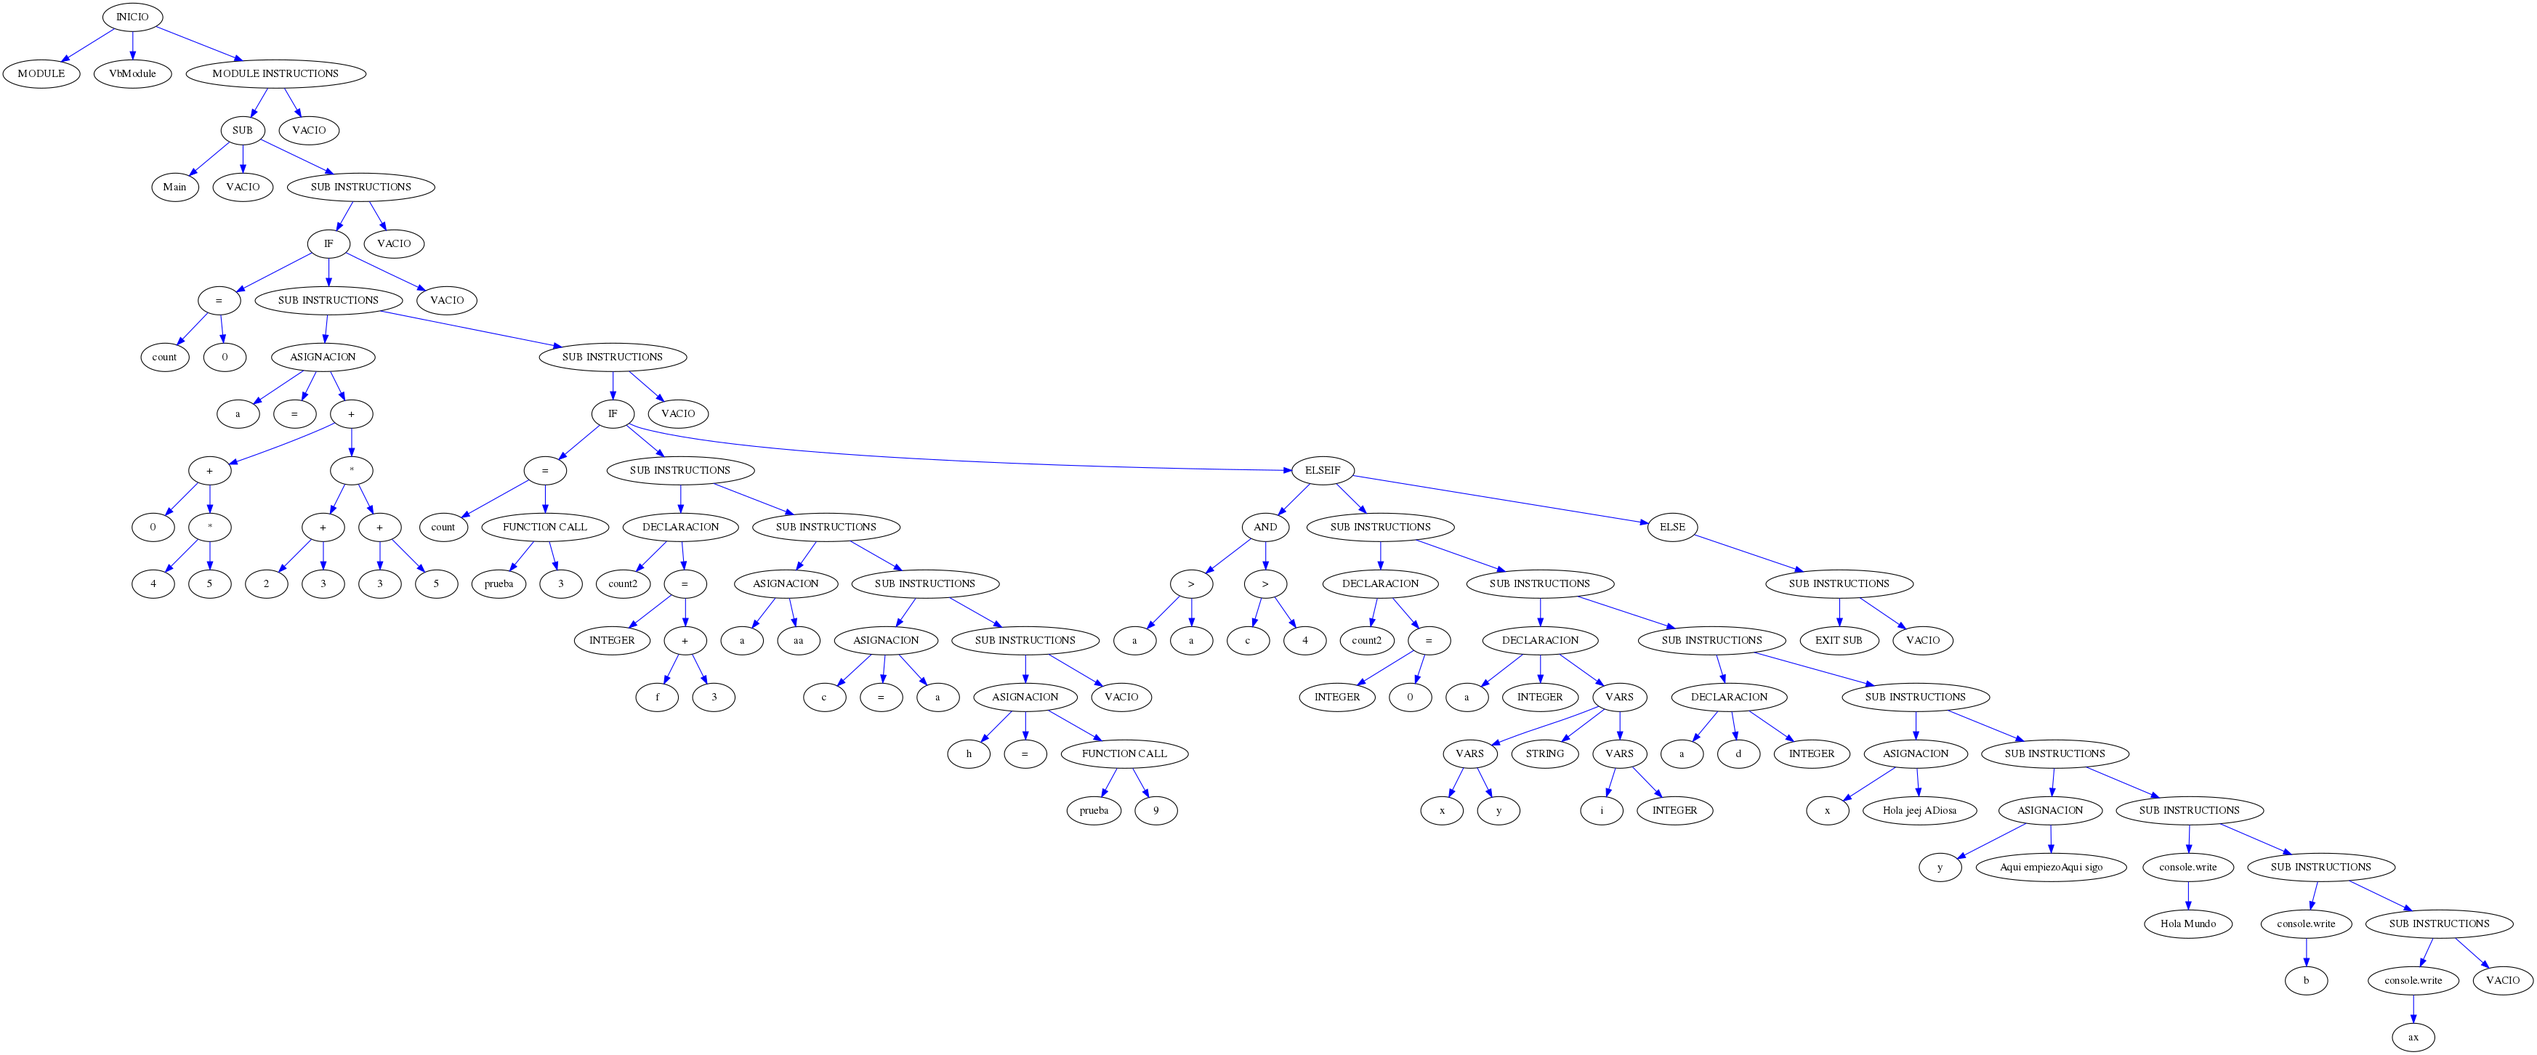
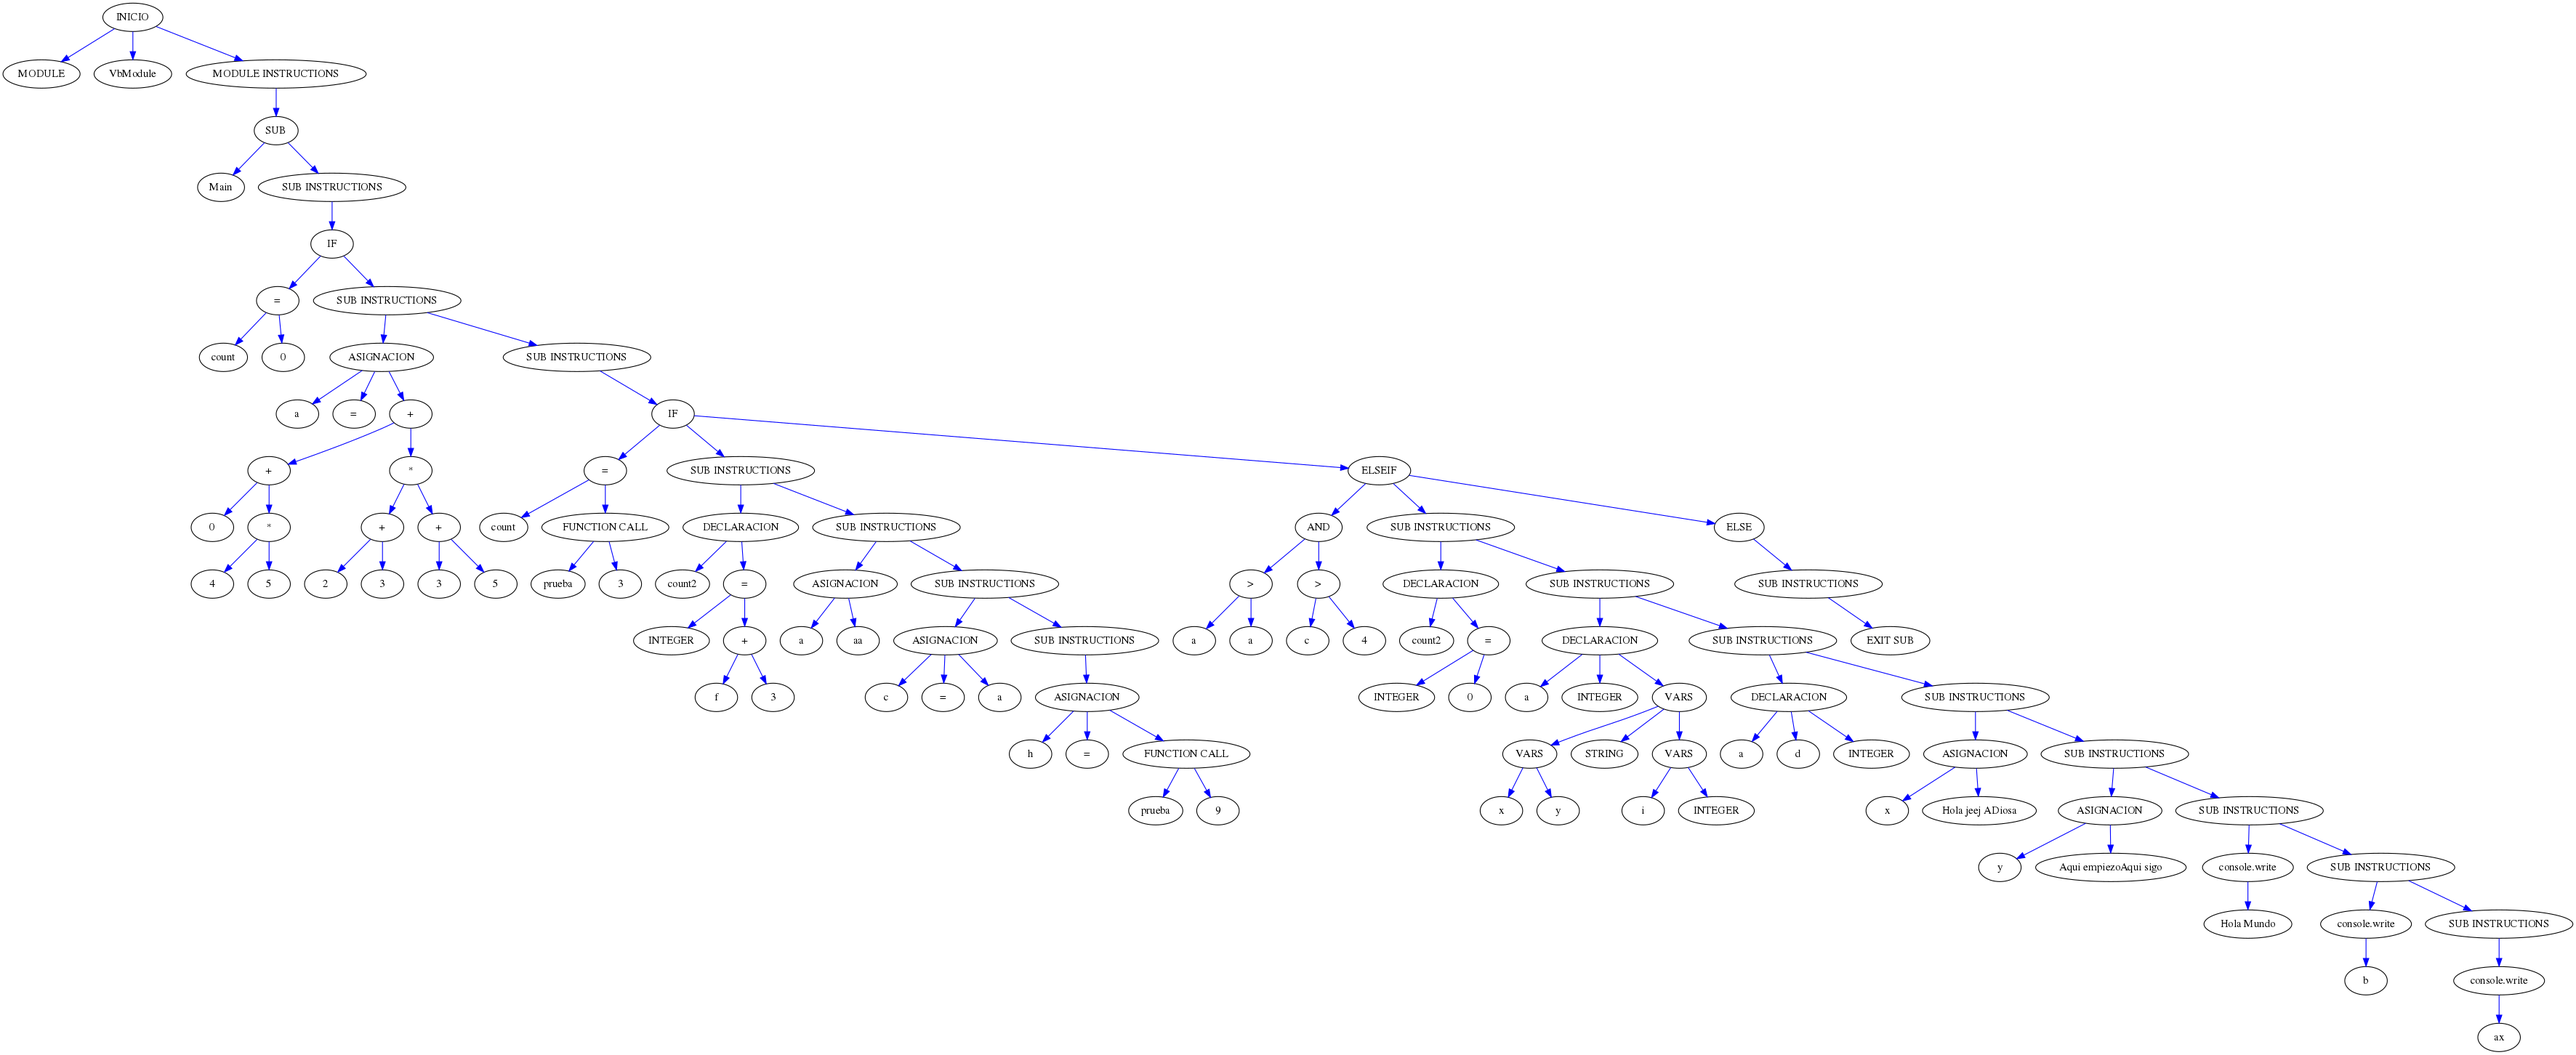
arbol

diff --git a/src/paquetePrincipal/Main.java b/src/paquetePrincipal/Main.java
@@ -111,7 +111,9 @@ public class Main extends javax.swing.JFrame {
     
 
     public static void DFS(Nodo node, ArrayList<String> recorrido) {
-        recorrido.add(node.toString());
+        if(!node.getEtiqueta().equals("VACIO")){
+            recorrido.add(node.toString());
+        }        
         for (int i = 0; i < node.getHijos().size(); i++) {
             DFS(node.getHijos().get(i),recorrido);
         }
@@ -119,7 +121,9 @@ public class Main extends javax.swing.JFrame {
 
     public static void DFSAristas(Nodo node,int padre, ArrayList<String> recorrido) {
         if(node.getIdNodo() != padre){
-            recorrido.add(padre+"->"+node.getIdNodo()+";");
+            if(!node.getEtiqueta().equals("VACIO")){
+                recorrido.add(padre+"->"+node.getIdNodo()+";");
+            }            
         }        
         for (int i = 0; i < node.getHijos().size(); i++) {
             DFSAristas(node.getHijos().get(i),node.getIdNodo(), recorrido);
